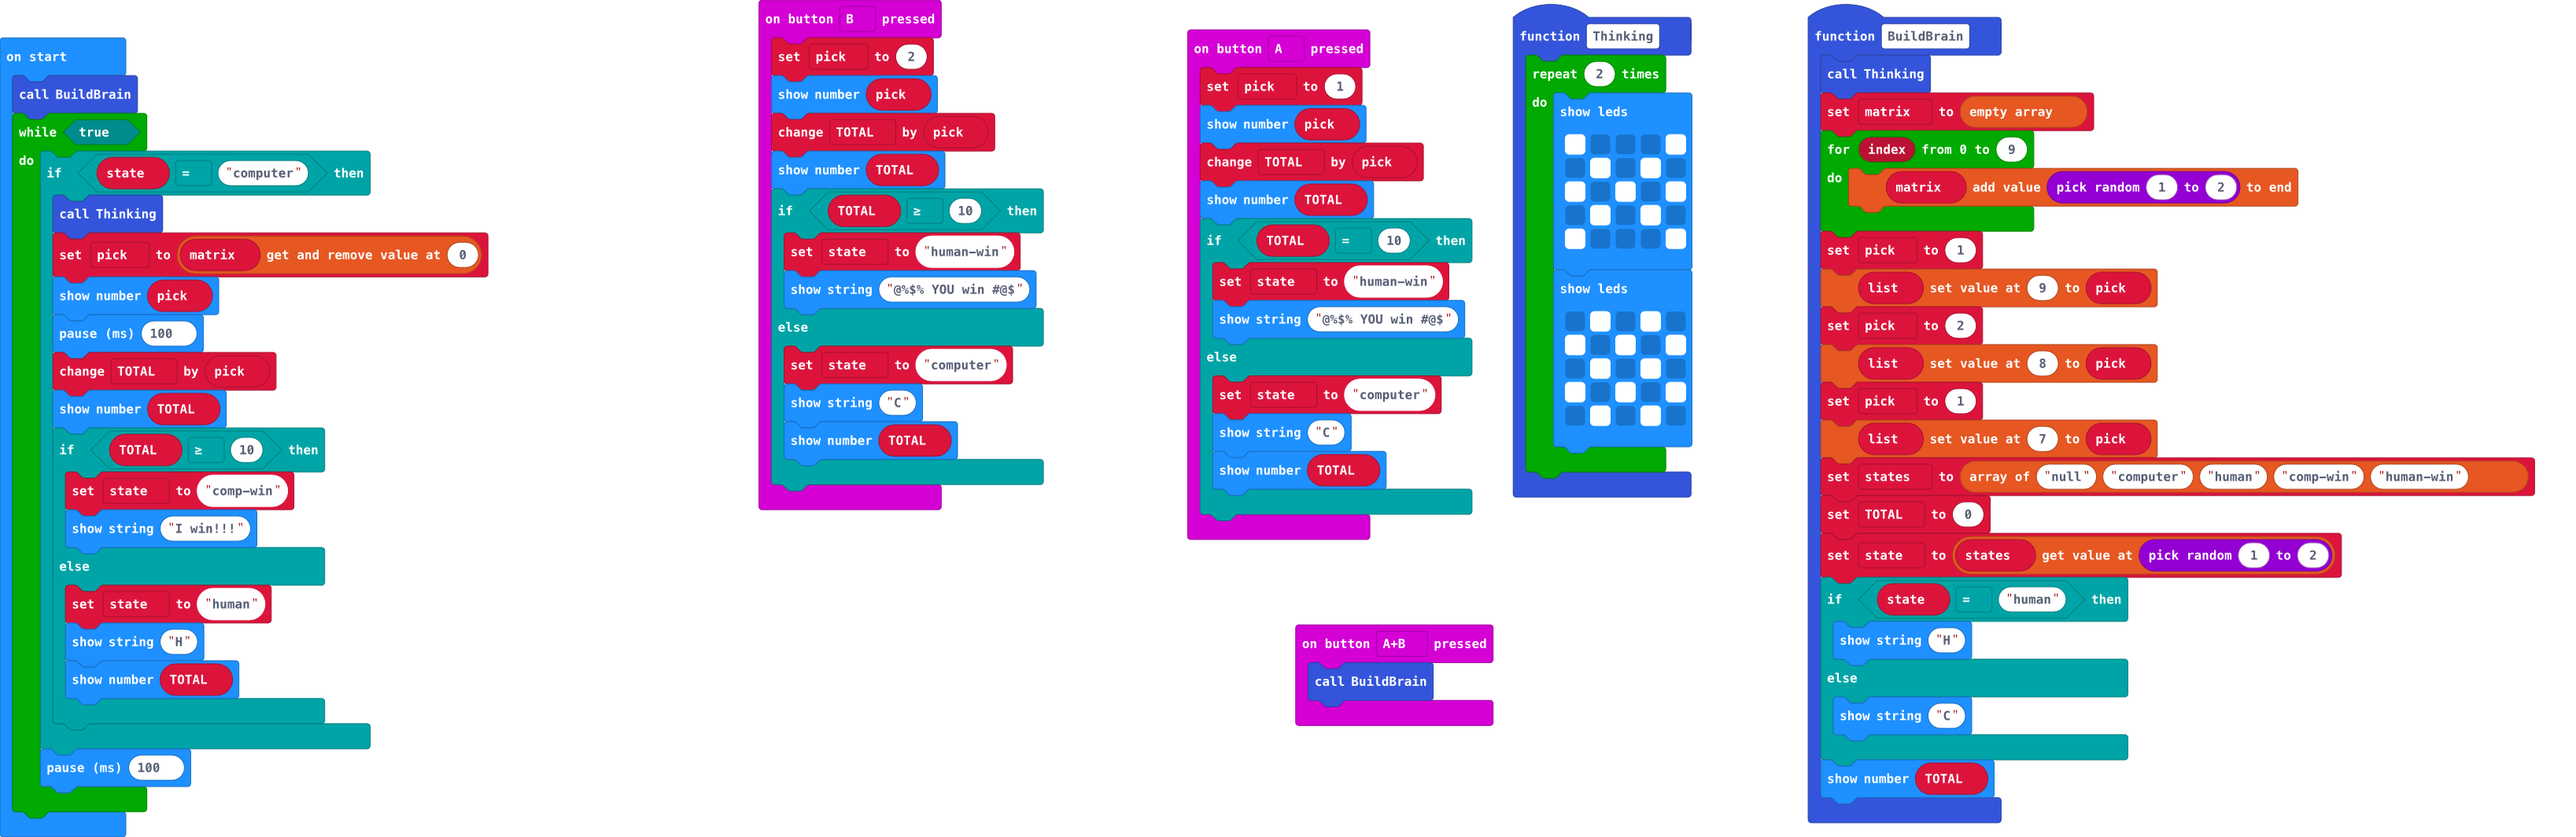
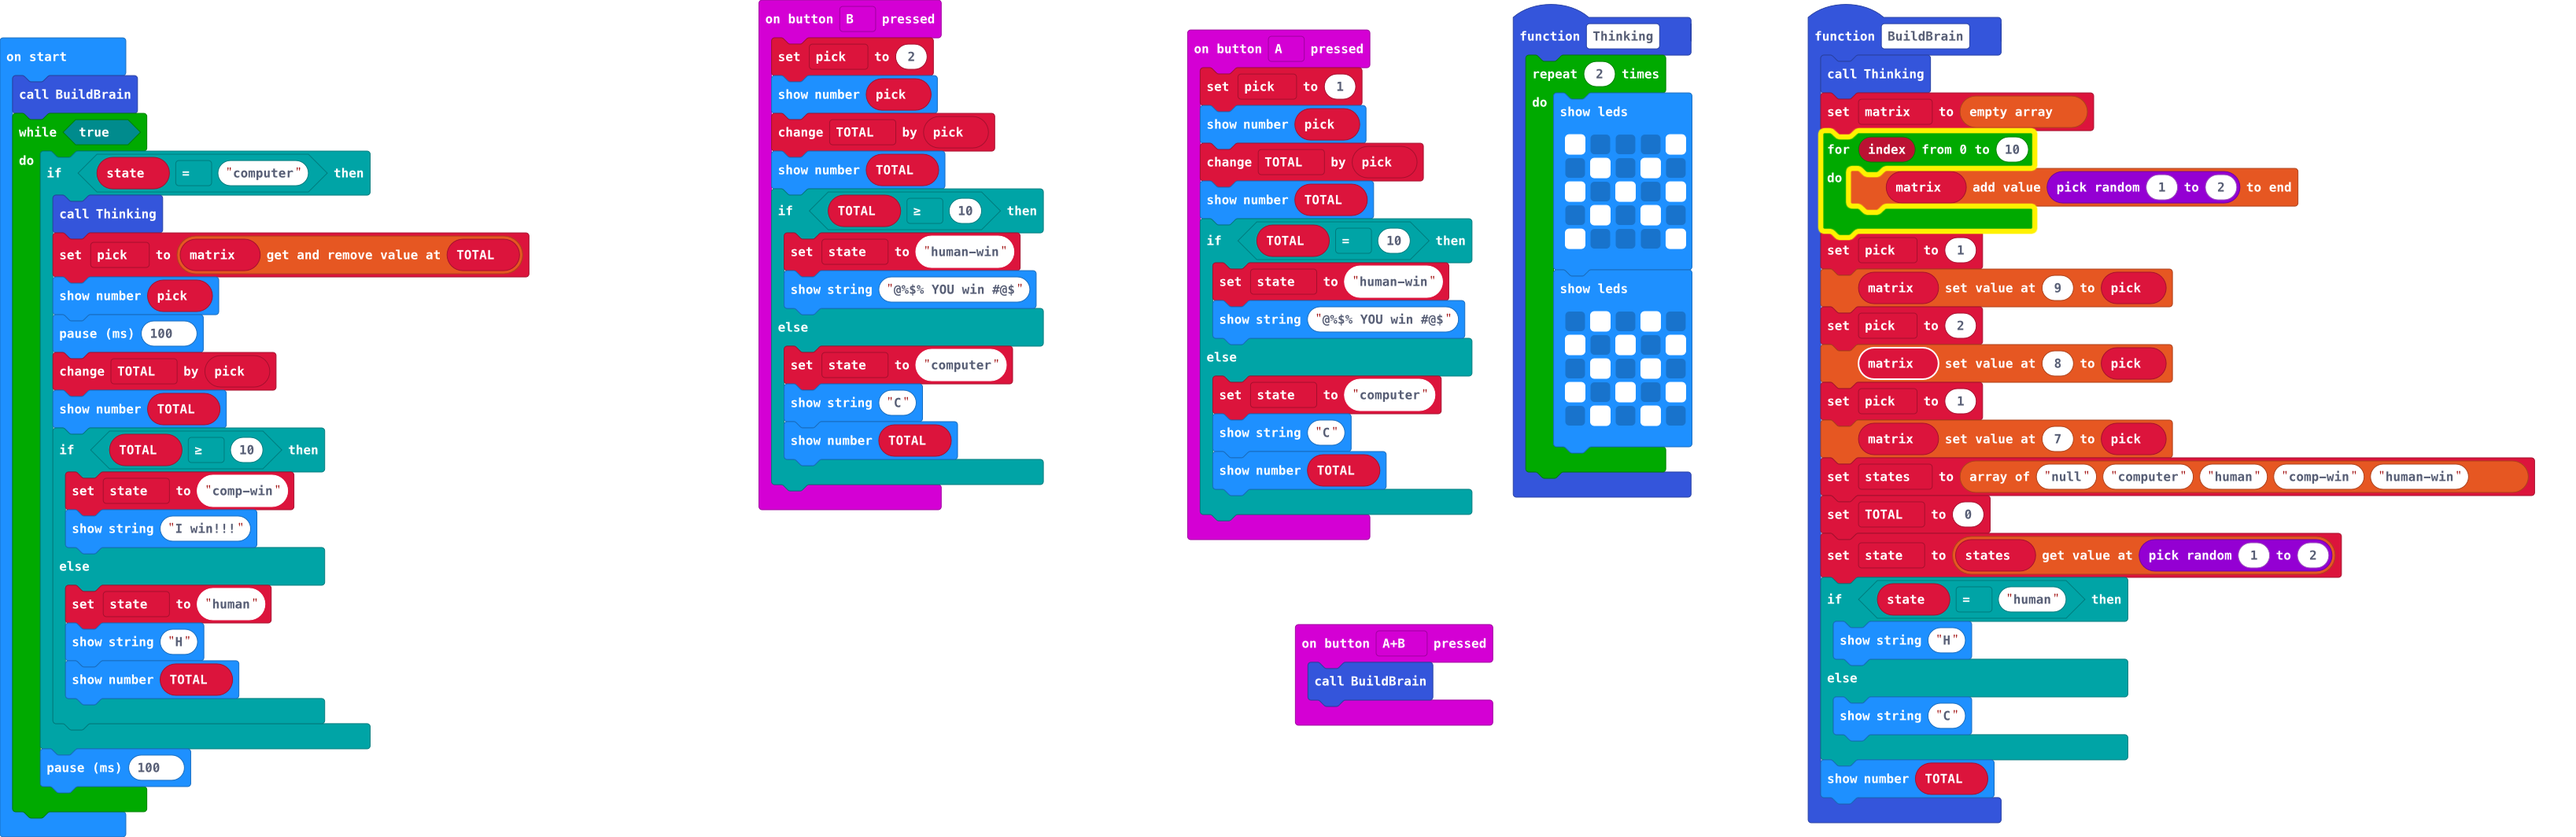
Update main.blocks, main.ts

diff --git a/main.ts b/main.ts
@@ -1,16 +1,15 @@
 function BuildBrain () {
-    let list: number[] = []
     Thinking()
     matrix = []
-    for (let index = 0; index <= 9; index++) {
+    for (let index = 0; index <= 10; index++) {
         matrix.push(randint(1, 2))
     }
     pick = 1
-    list[9] = pick
+    matrix[9] = pick
     pick = 2
-    list[8] = pick
+    matrix[8] = pick
     pick = 1
-    list[7] = pick
+    matrix[7] = pick
     states = ["null", "computer", "human", "comp-win", "human-win"]
     TOTAL = 0
     state = states[randint(1, 2)]
@@ -79,7 +78,7 @@ BuildBrain()
 while (true) {
     if (state == "computer") {
         Thinking()
-        pick = matrix.removeAt(0)
+        pick = matrix.removeAt(TOTAL)
         basic.showNumber(pick)
         basic.pause(100)
         TOTAL += pick
